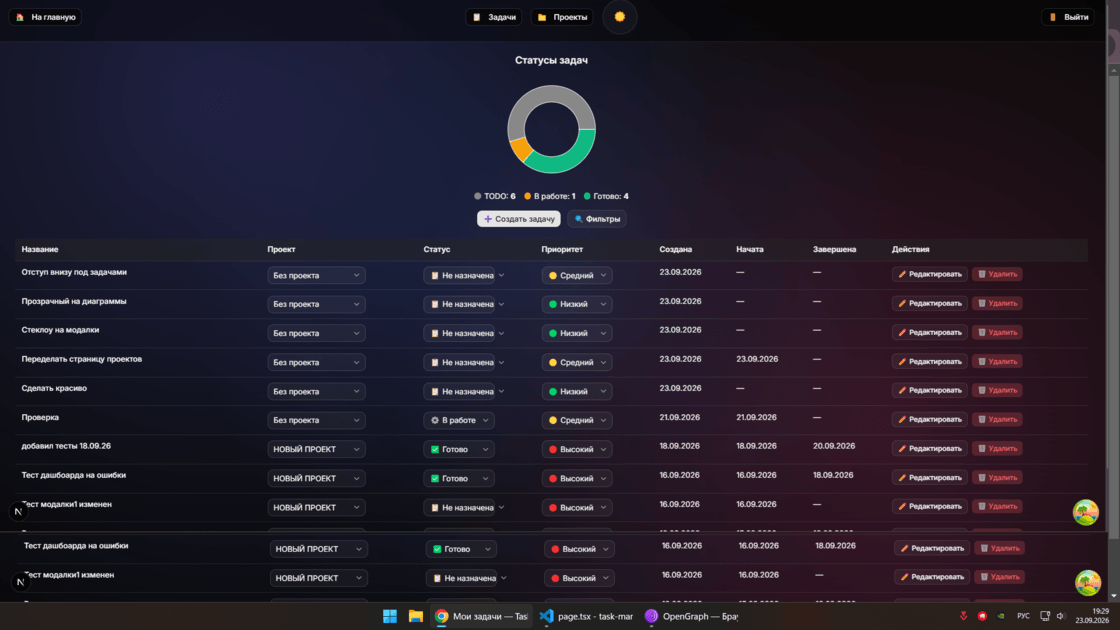
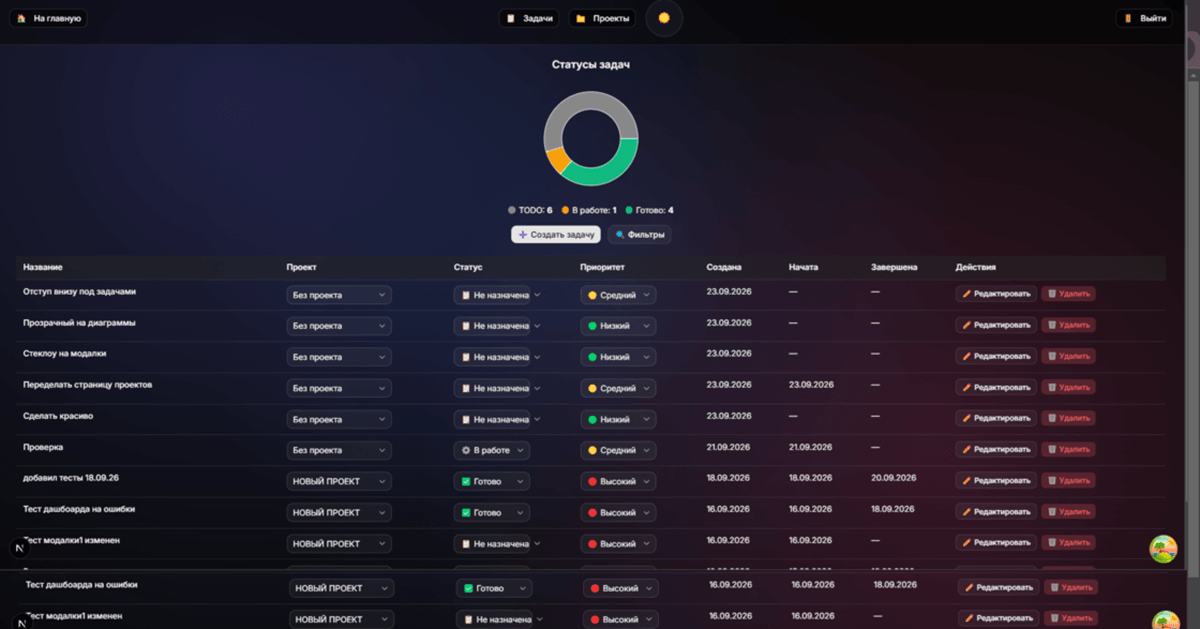
fix og img

diff --git a/src/app/layout.tsx b/src/app/layout.tsx
@@ -1,6 +1,5 @@
 import type { Metadata } from "next";
 import { ThemeProvider } from "next-themes";
-import { Geist, Geist_Mono } from "next/font/google";
 import "./globals.css";
 import Navbar from "@/components/Navbar";
 import Providers from "@/components/Providers";
@@ -23,12 +22,28 @@ export const metadata: Metadata = {
   openGraph: {
     title: "TaskTracker — Менеджер задач",
     description: "(Пет-проект) Управляй задачами и проектами",
-    images: ["/og-image.png"],
+    url: "https://task-trecker2026-vibe-human.vercel.app",
+    siteName: "TaskTracker",
     type: "website",
+    images: [
+      {
+        url: "/og-image.png",
+        width: 1200,
+        height: 629,
+        alt: "TaskTracker — менеджер задач",
+      },
+    ],
   },
   twitter: {
     card: "summary_large_image",
-    images: ["/og-image.png"],
+    images: [
+      {
+        url: "/og-image.png",
+        width: 1200,
+        height: 629,
+        alt: "TaskTracker — менеджер задач",
+      },
+    ],
   },
 };
 
